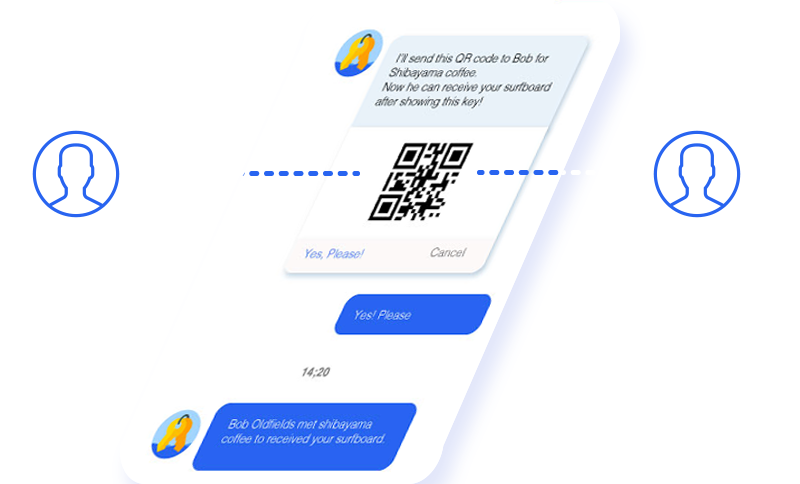
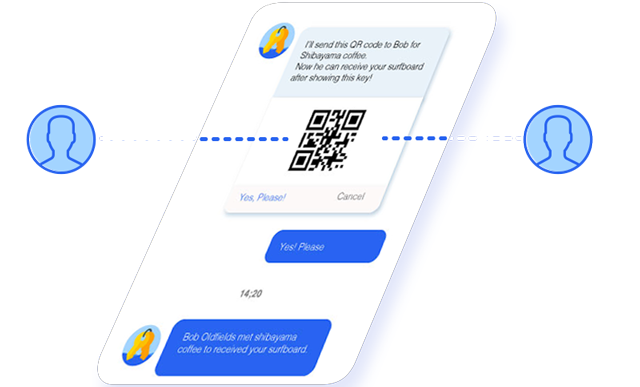
landing page

diff --git a/src/components/HelloWorld.vue b/src/components/HelloWorld.vue
@@ -1,16 +1,31 @@
 <template>
   <div class="hello">
     <h1>{{ msg }}</h1>
-    <h2>
+    <h4>
       荷物の受け取りや受け渡し、忙しく家にいない時に不便と感じていませんか？<br>
-      家にあるサーフボード、ゴルフバッグ、貸すことは無理と思っていませんか？<br>
-    </h2>
-    <!--<img alt="Vue logo" src="./../assets/logo2.png">-->
+      子供の送り迎え急な用事でできない時、猫の手でも借りたい..と感じていませんか？<br>
+    </h4>
+    <h2> The Keeperは<br>「助けてもらいたいけど色々な人を紹介するなんて...アレンジが面倒...」<br>な方のためのサービスです！</h2>
+    <img alt="image UI" src="./../assets/chat-ui1.png">
+    <br>
+    <br>
+      <h5>「平日にサーフボードを渡すのは無理だ。。なぜか急に山田がサーフィンする気になってボード貸してって言っているが。。いつも暇そうな近所のカフェの店主に預けられたらな、、でも店主は山田のこと知らないから、説明が面倒だ。。諦めるしかないのか。せっかくサーフィン友達ができそうなのに><..」そんな時にThe keeperを使いましょう。</h5>
+    <br>
+    <a href="#" class="tryButton">試してみる</a>
+    <h4>使い方</h4>
+    <h3>1. 依頼人はThe keeperへ受取人を連絡する</h3>
+    <img alt="image UI" src="./../assets/chat-ui-1.png">
+    <h3>2. 受取人はThe keeperから送られたQRコードで認証を受けて受取りを完了する</h3>
+    <img alt="image UI" src="./../assets/chat-ui-2.png">
+    <h3>3. 依頼人は受取り完了の通知を受け取る</h3>
+    <img alt="image UI" src="./../assets/chat-ui-3.png">
+    <br>
+    <a href="#" class="tryButton">試してみる</a>
     <ul>
       <li><a href="https://router.vuejs.org" target="_blank" rel="noopener">Privacy Policy</a></li>
       <li><a href="https://vuex.vuejs.org" target="_blank" rel="noopener">Terms of Service</a></li>
     </ul>
-    <a href="#" class="myButton">+</a>
+    <!--<a href="#" class="myButton">+</a>-->
   </div>
   </div>
 </template>
@@ -34,14 +49,31 @@ h1 {
   font-size: 48px;
 }
 h2 {
+  color: #ffffff;
+  font-size: 24px;
+  font-weight: 500;
+  margin: 40px;
+}
+h3 {
+  color: #ffffff;
+  font-size: 24px;
+  font-weight: 500;
+  margin: 20px;
+}
+h4 {
   color: #a3d4ff;
   font-size: 18px;
   font-weight: 500;
+  margin: 10px 0 0 0;
 }
-h3 {
-  margin: 40px 0 0;
+h5 {
+  color: #a3d4ff;
+  width: 80%;
+  text-align: center;
+  font-size: 14px;
+  font-weight: 300;
+  margin: 0px auto;
 }
-
 ul {
   list-style-type: none;
   padding: 0;
@@ -51,7 +83,7 @@ li {
   margin: 0 10px;
 }
 a {
-  color: #2864f0;
+  color: #a3d4ff;
 }
 .myButton {
     -moz-box-shadow: 0px 3px 3px -2px #2f65b7;
@@ -80,5 +112,29 @@ a {
 .myButton:active {
 	position:relative;
 	top:1px;
+}
+.tryButton {
+  -moz-box-shadow: 0px 3px 7px 2px #2f65b7;
+  -webkit-box-shadow: 0px 3px 7px 2px #2f65b7;
+  box-shadow: 0px 3px 7px 2px #2f65b7;
+  margin: 0 auto;
+  -moz-border-radius:24px;
+  -webkit-border-radius:24px;
+  border-radius:24px;
+  display:inline-block;
+  cursor:pointer;
+  color:#2864f0;
+  font-family:Arial;
+  font-size:17px;
+  padding:16px 31px;
+  text-decoration:none;
+  background-color:#fff;
+}
+.tryButton:hover {
+  background-color:#a3d4ff;
+}
+.tryButton:active {
+  position:relative;
+  top:1px;
 }
 </style>
